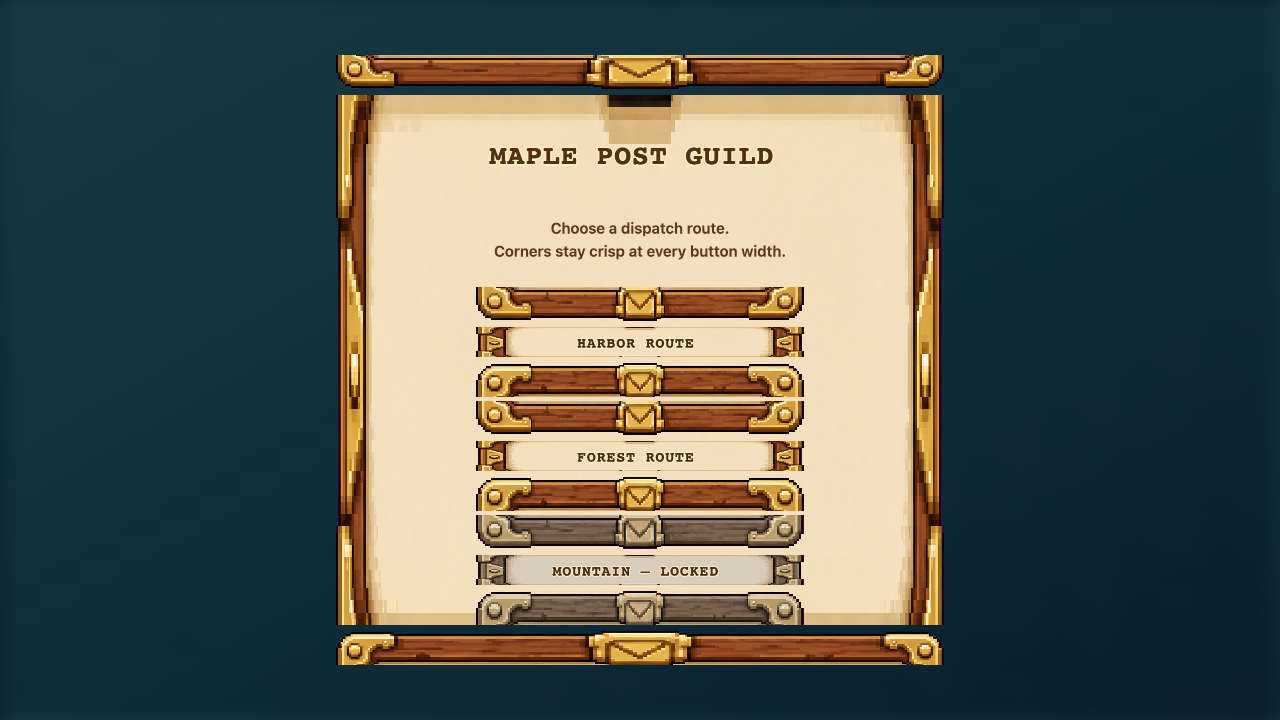
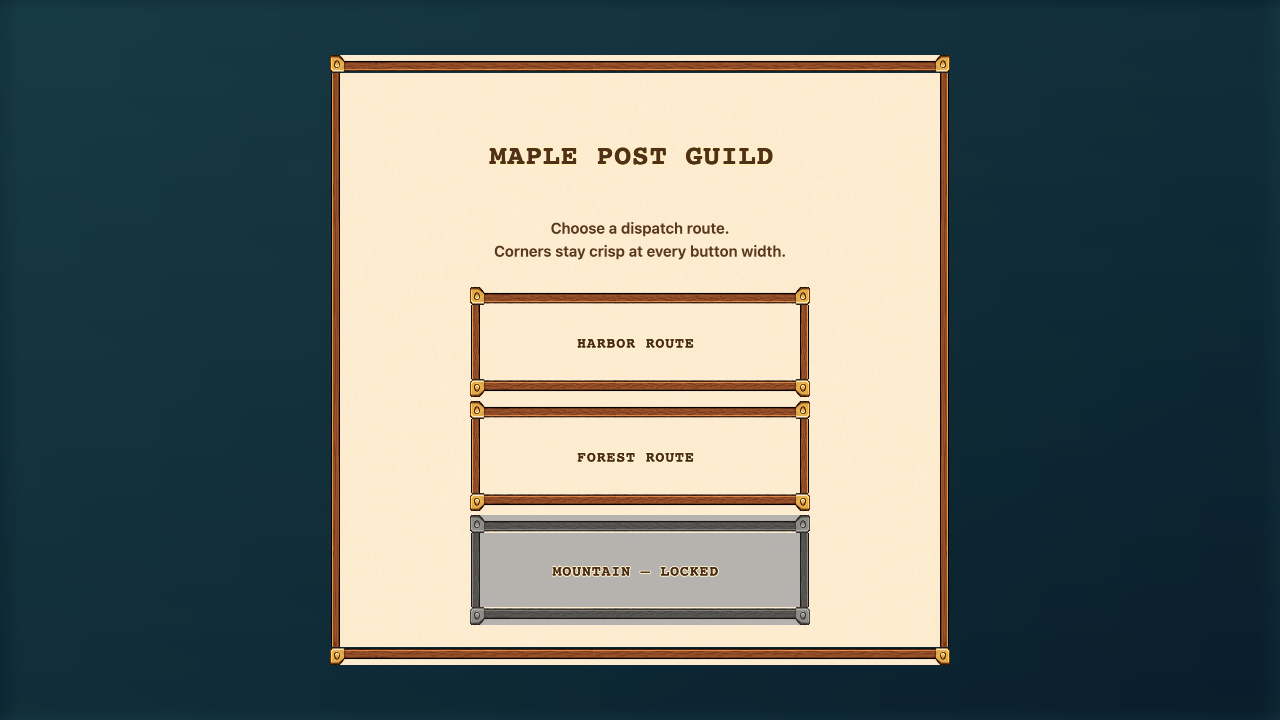
fix(ui): correct nine-slice skin and walk directions

Changed region(s): [[0.25, 0.0611, 0.75, 0.9472]]

diff --git a/examples/2d_sorting_town.ts b/examples/2d_sorting_town.ts
@@ -504,8 +504,9 @@ const courierController = {
             const dx = targetX - courier.x;
             const dy = targetY - courier.y;
             const distance = Math.hypot(dx, dy);
+            // Keep logical directions explicit: this authored atlas is uploaded with flipY.
             if (Math.abs(dx) >= Math.abs(dy)) currentDirectionRow = dx < 0 ? 2 : 1;
-            else currentDirectionRow = dy < 0 ? 3 : 0;
+            else currentDirectionRow = dy < 0 ? 0 : 3;
             if (distance <= remainingDistance || distance < 0.001) {
                 courier.x = targetX;
                 courier.y = targetY;

diff --git a/examples/shared/postalUi.ts b/examples/shared/postalUi.ts
@@ -1,12 +1,12 @@
 import * as Hilo3d from '../../src/Hilo3d';
 
-export const POSTAL_UI_FRAME_WIDTH = 367;
-export const POSTAL_UI_FRAME_HEIGHT = 166;
+export const POSTAL_UI_FRAME_WIDTH = 384;
+export const POSTAL_UI_FRAME_HEIGHT = 144;
 export const POSTAL_UI_INSETS = Object.freeze({
-    left: 58,
-    right: 58,
-    top: 40,
-    bottom: 40
+    left: 18,
+    right: 18,
+    top: 18,
+    bottom: 18
 });
 
 export async function loadPostalUiTexture(): Promise<Hilo3d.Texture> {

diff --git a/.agents/skills/build-hilo3d-games/references/2d-games.md b/.agents/skills/build-hilo3d-games/references/2d-games.md
@@ -49,9 +49,13 @@ camera.resize(width, height);
 
 ## Match anchors to the layout coordinate system
 
+> **Coordinate invariant:** never infer Sprite positioning from the Camera origin.
+
 `Camera2D` has a top-left screen origin, but every `Sprite` and `Text2D` defaults to a centered
-`anchorX: 0.5, anchorY: 0.5`. The anchor is part of the visual's local geometry; it does not change
-what `x` and `y` mean. Do not assume a top-left Camera also changes the Sprite anchor.
+`anchorX: 0.5, anchorY: 0.5`. `sprite.x/y` is the anchor's position in the **parent node's local
+coordinate system**; it is not the image's top-left corner. The anchor changes which point of the
+visual sits at that local position. Parent translation, scale, and rotation then produce the world
+position. Do not assume a top-left Camera also changes the Sprite anchor.
 
 For UI coordinates measured from a mockup's left/top edge, make the contract explicit:
 
@@ -77,6 +81,24 @@ portrait.y = panelTop + portrait.height * 0.5;
 Apply the same rule to cover backgrounds, panels, portraits, titles, and bottom/right-aligned HUD
 items. Browser-check every responsive edge: an anchor mismatch often clips exactly half of a visual
 while arithmetic and hit boxes otherwise look plausible.
+
+For nested UI, keep the same contract at every level:
+
+```ts
+const panel = new Hilo3d.Node({ x: 24, y: 20 }).addTo(stage);
+const icon = new Hilo3d.Sprite({
+    texture: iconTexture,
+    x: 12,
+    y: 12,
+    anchorX: 0,
+    anchorY: 0
+}).addTo(panel);
+```
+
+Here the icon's top-left is `(12, 12)` in `panel` local space and `(36, 32)` in world space before
+any parent scale or rotation. Do not feed DOM `clientX/clientY` directly into a nested Sprite; let
+Stage/Camera picking perform screen-to-world conversion, then transform to local space when custom
+drag logic needs it.
 
 ## Build sprites from textures and atlas frames
 
@@ -130,6 +152,11 @@ Control animation with `play()`, `pause()`, `stop()`, and `gotoFrame(index)`. Li
 
 Frame coordinates use top-left source pixels. `SpriteFrame` accounts for the texture `flipY` policy;
 do not manually invert atlas rows.
+
+Still define animation rows through semantic names (`up`, `down`, `left`, `right`) and verify the
+map in a real browser on both backends. Do not let gameplay code depend on an image viewer's
+apparent row order: texture upload orientation, authored facing direction, and atlas tooling can
+make a visually plausible numeric row map point the character the wrong way.
 
 ## Replace Sprite sources in place
 
@@ -270,6 +297,17 @@ const panel = new Hilo3d.SlicedSprite({
 
 Its nine child Sprites use one texture and stay adjacent, so they normally form one portable
 instance batch. Use `UiButton` when the same skin has interaction states:
+
+The source art must itself be nine-slice-safe:
+
+- keep every corner ornament completely inside its fixed corner inset;
+- make each stretchable edge segment continuous and uniform;
+- keep emblems, clasps, notches, protrusions, and other unique details out of edge centers;
+- use a flat, repeatable, or uniformly stretchable center;
+- validate at one size wider and one size taller than the source frame in a real browser.
+
+Slicing an arbitrary ornate frame does not make it scalable. Details that cross a slice boundary or
+sit inside a stretchable edge become elongated gaps and detached top/center/bottom bands.
 
 ```ts
 const button = new Hilo3d.UiButton({
